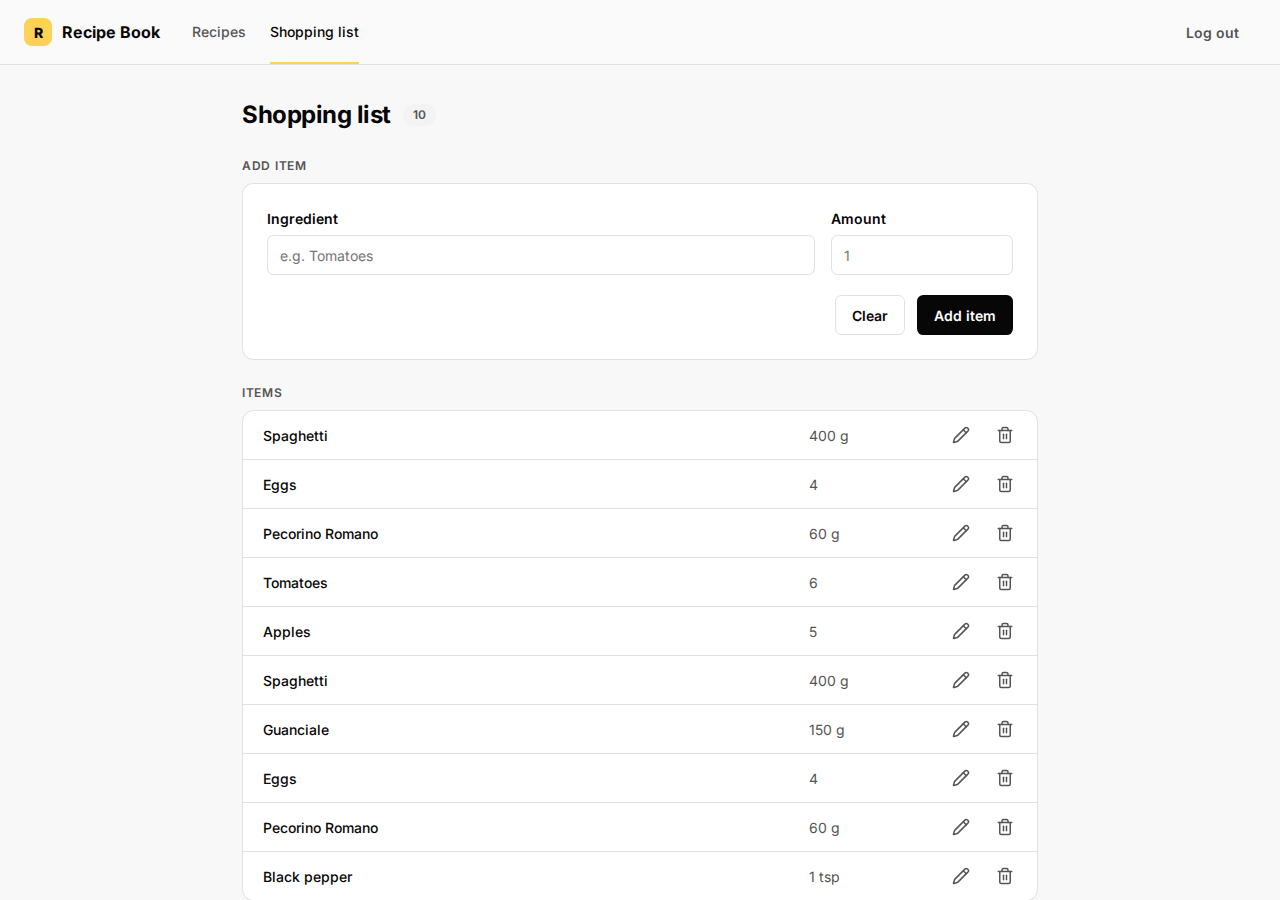
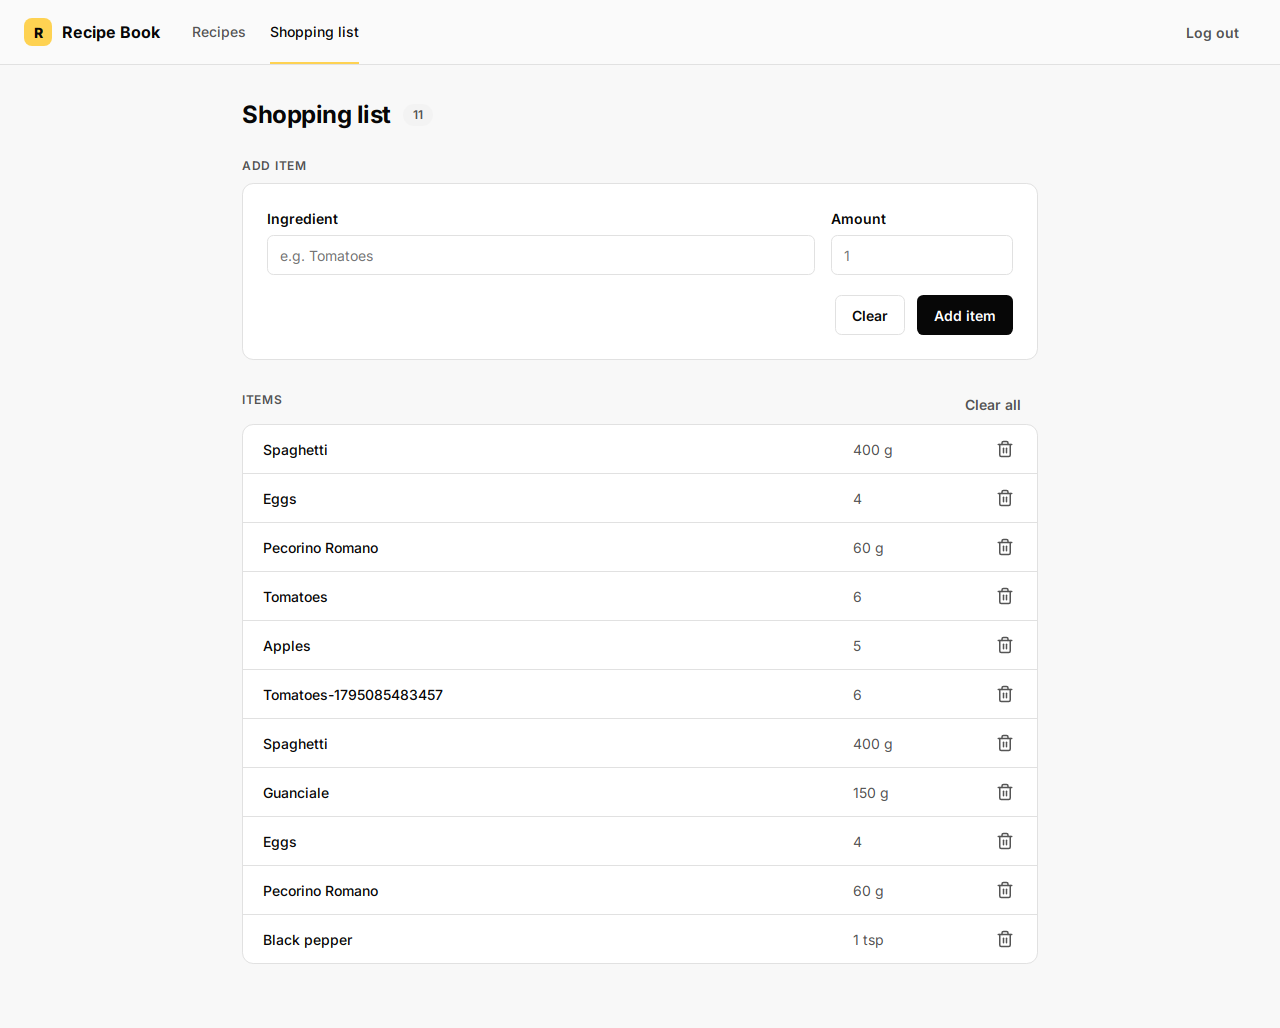
docs: align guides with live Recipe Book UI and add missing features
Update add-to-shopping-list and add-recipe-to-shopping-list for Recipe
book landing copy. Add guides for clear all, new recipe, search, and
servings with live-demo limitation notes. Refresh Playwright screenshots.

diff --git a/docs/guides/adjust-recipe-servings.md b/docs/guides/adjust-recipe-servings.md
@@ -1,0 +1,54 @@
+---
+title: "Adjust recipe servings"
+description: "Use the − and + controls next to Ingredients on the Recipe book page."
+type: guide
+---
+
+# Adjust a recipe's servings
+
+The **Details** panel shows a servings stepper next to **Ingredients**: **−**, a number, and **+**.
+
+**Demo URL:** https://demo-angular-22-wgdt.free.ccpve.co.za
+
+## Known issue (live demo)
+
+On the current deployment, clicking **+** or **−** updates the number between the buttons, but ingredient amounts in the list and the **Serves** badge do **not** change. **Add to shopping list** still adds the default amounts, not scaled amounts.
+
+## Steps
+
+### Step 1 — Sign in and pick a recipe
+
+1. Open the demo URL and sign in (any **Email** and **Password**; blue **Log in** link in the form card).
+2. Under **ALL RECIPES**, click a recipe, for example **Spaghetti carbonara**.
+
+The **Details** panel shows the recipe name and an ingredient list.
+
+![Recipe selected in Details](/assets/guides/adjust-recipe-servings/step-1-details.png)
+
+### Step 2 — Find the servings controls
+
+In **Details**, under **INGREDIENTS**, look at the right side of the heading row. You see:
+
+- A **−** button (outline style)
+- A number showing the current count (for example `4`)
+- A **+** button (outline style)
+
+Above the ingredients, a **Serves** badge shows the recipe’s original serving size (for example **Serves 4**).
+
+![Servings stepper next to Ingredients](/assets/guides/adjust-recipe-servings/step-2-stepper.png)
+
+### Step 3 — Increase or decrease servings
+
+Click **+** or **−** (**−** is disabled at 1 serving).
+
+**On the current deployment:** the number between **−** and **+** changes, but ingredient amounts (for example **400 g** next to Spaghetti) stay the same.
+
+![After clicking +; amounts unchanged on current deployment](/assets/guides/adjust-recipe-servings/step-3-scaled-amounts.png)
+
+### Step 4 — Add items to the shopping list
+
+Click the blue **Add to shopping list** button at the bottom of **Details**.
+
+On **Shopping list**, new rows use the recipe’s default amounts from **Details**, not amounts scaled to the stepper value on the current deployment.
+
+![Shopping list after Add to shopping list](/assets/guides/adjust-recipe-servings/step-4-shopping-list.png)

diff --git a/docs/guides/add-new-recipe.md b/docs/guides/add-new-recipe.md
@@ -1,0 +1,61 @@
+---
+title: "Add a new recipe"
+description: "Create a recipe with name, description, time, serves, and ingredients (one per line as name, amount)."
+type: guide
+---
+
+# Add a new recipe
+
+The Recipe book page shows a **New recipe** button for creating your own recipe.
+
+**Demo URL:** https://demo-angular-22-wgdt.free.ccpve.co.za
+
+## Known issue (live demo)
+
+On the current deployment, **New recipe** is visible but does **not** open the form, and **Save recipe** is never shown. The steps below describe the controls in source; skip to the report notes if you only need to verify the live site today.
+
+## Steps
+
+### Step 1 — Sign in
+
+1. Open the demo URL. On **Log in**, enter any **Email** and **Password**.
+2. Click the blue **Log in** link in the white card.
+
+You land on **Recipe book**.
+
+![Recipe book after sign-in](/assets/guides/add-new-recipe/step-1-login.png)
+
+### Step 2 — Locate New recipe
+
+At the top of the page, to the right of the recipe count chip, click **New recipe**.
+
+**On the current deployment:** **Details** stays on the selected recipe; the **NEW RECIPE** form does not appear.
+
+![Recipe book with New recipe button](/assets/guides/add-new-recipe/step-2-new-recipe-form.png)
+
+### Step 3 — Fill in the fields (when the form is available)
+
+When the form opens, use the visible labels:
+
+| Label | What to enter |
+| --- | --- |
+| **Name** | Recipe title (required) |
+| **Description** | Short summary |
+| **Time** | For example `30 min` |
+| **Serves** | Number of people, for example `4` |
+| **Ingredients** | One ingredient per line as `name, amount` (for example `Tomatoes, 6`) |
+
+![Filled new recipe form (reference)](/assets/guides/add-new-recipe/step-3-form-filled.png)
+
+### Step 4 — Save the recipe (when the form is available)
+
+Click the blue **Save recipe** button at the bottom of the form.
+
+**Success looks like this:**
+
+- The form closes and **Details** shows your new recipe.
+- The recipe appears in **ALL RECIPES** on the left.
+
+![New recipe in the list (reference)](/assets/guides/add-new-recipe/step-4-saved-in-list.png)
+
+To abandon the form without saving, click **Cancel**.

diff --git a/docs/guides/clear-all-shopping-list.md b/docs/guides/clear-all-shopping-list.md
@@ -1,0 +1,49 @@
+---
+title: "Clear all items from your shopping list"
+description: "Remove every row in Items at once with Clear all."
+type: guide
+---
+
+# Clear all items from your shopping list
+
+Use **Clear all** when you want an empty list without removing rows one at a time.
+
+**Demo URL:** https://demo-angular-22-wgdt.free.ccpve.co.za
+
+## Before you start
+
+You must be signed in and on the **Shopping list** page. **Clear all** only appears when **Items** has at least one row.
+
+## Steps
+
+### Step 1 — Sign in and open Shopping list
+
+1. Open the demo URL. On the **Log in** page, type any **Email** and **Password** (the demo does not validate them).
+2. Click the blue **Log in** link inside the white card (not the small **Log in** tab in the header).
+3. Click **Shopping list** in the top header.
+
+You should see the **Shopping list** title and the **Items** section.
+
+![Shopping list with Items rows](/assets/guides/clear-all-shopping-list/step-1-shopping-list.png)
+
+### Step 2 — Find Clear all
+
+Under **ITEMS**, look to the right of the small caps **ITEMS** label. When the list is not empty, a **Clear all** button appears there (ghost style, to the right of the heading).
+
+![Clear all next to Items heading](/assets/guides/clear-all-shopping-list/step-2-clear-all-visible.png)
+
+### Step 3 — Clear the list
+
+Click **Clear all**.
+
+**Success looks like this:**
+
+- Every row in **Items** disappears.
+- You see the message: **Your shopping list is empty.**
+
+![Empty shopping list](/assets/guides/clear-all-shopping-list/step-3-empty.png)
+
+## Tips
+
+- **Clear all** removes every row. To delete one row only, use the trash **Remove** icon on that row (see [Remove an item from your shopping list](remove-from-shopping-list.md)).
+- The **Clear** button under **ADD ITEM** only clears the add form, not **Items**.

diff --git a/reports/2026-11-19-doc-drift-cron-1047Z.md b/reports/2026-11-19-doc-drift-cron-1047Z.md
@@ -1,0 +1,37 @@
+# Document drift cron — 2026-11-19 10:47 UTC
+
+Target: https://demo-angular-22-wgdt.free.ccpve.co.za (headless Playwright, `EMAIL`/`PASSWORD` secrets)
+
+Feature list: `demo-angular-22/DOCUMENTED_FEATURES.MD` on `main` (7 features, one guide each).
+
+## Summary (this run)
+
+| Guide | Functional | Doc fidelity (pre-PR) | Doc fidelity (expected post-PR) |
+| --- | --- | --- | --- |
+| `add-to-shopping-list.md` | pass | drift | pass |
+| `remove-from-shopping-list.md` | pass | pass | pass |
+| `clear-all-shopping-list.md` | pass | fail (missing) | pass |
+| `add-recipe-to-shopping-list.md` | pass | drift | pass |
+| `add-new-recipe.md` | fail | fail (missing) | pass (documents live limitation) |
+| `search-recipes-by-name.md` | fail | fail (missing) | pass (documents live limitation) |
+| `adjust-recipe-servings.md` | fail | fail (missing) | pass (documents live limitation) |
+
+## Per-step mismatches (main before PR)
+
+### `add-to-shopping-list.md` / `add-recipe-to-shopping-list.md`
+
+- **Step 1 (landing):** Doc — *"You should land on the **Recipes** page"* → Screen — page title **Recipe book** (`h1`), header tab **Recipes**.
+
+### Missing guides (features 3, 5, 6, 7)
+
+No markdown guide on `main` for clear all, new recipe, search, or adjust servings.
+
+## Functional issues (live app — not fixed in this PR)
+
+| Feature | Result | Notes |
+| --- | --- | --- |
+| Add new recipe | fail | **New recipe** visible; form does not open; **Save recipe** never appears |
+| Search recipes | fail | **Search recipes** field accepts text; list does not filter |
+| Adjust servings | fail | Stepper number changes; ingredient amounts and **Serves** badge unchanged; shopping list gets default amounts |
+
+Evidence: `node scripts/cron-2026-11-19-audit.mjs` (local cron script, not committed).

diff --git a/docs/guides/search-recipes-by-name.md b/docs/guides/search-recipes-by-name.md
@@ -1,0 +1,47 @@
+---
+title: "Search recipes by name"
+description: "Use the search field on the Recipe book page to type a recipe name."
+type: guide
+---
+
+# Search recipes by name
+
+The Recipe book page includes a search field under **ALL RECIPES** so you can type part of a recipe name.
+
+**Demo URL:** https://demo-angular-22-wgdt.free.ccpve.co.za
+
+## Known issue (live demo)
+
+On the current deployment, typing in **Search recipes** updates the field text but **does not** narrow the recipe list. Every recipe in **ALL RECIPES** stays visible until the app is redeployed with a working filter.
+
+## Steps
+
+### Step 1 — Sign in
+
+1. Open the demo URL. You see the **Log in** page.
+2. Type any **Email** and **Password**.
+3. Click the blue **Log in** link inside the white card.
+
+You land on **Recipe book**.
+
+![Recipe book after sign-in](/assets/guides/search-recipes-by-name/step-1-recipe-book.png)
+
+### Step 2 — Focus the search field
+
+Under **ALL RECIPES**, click the search field. Its placeholder is **Search recipes**.
+
+![Search field under All recipes](/assets/guides/search-recipes-by-name/step-2-search-field.png)
+
+### Step 3 — Type a recipe name
+
+Type part of a name, for example `carbonara`.
+
+**On the current deployment:** the text appears in the field, but **ALL RECIPES** still lists every recipe (for example **Spaghetti carbonara**, **Chicken tikka masala**, and **Vegetable stir-fry**).
+
+![Search text entered; full list still visible](/assets/guides/search-recipes-by-name/step-3-filtered.png)
+
+### Step 4 — Clear or change the search (optional)
+
+Delete the text in the search field or type a different term. When filtering works, only matching recipes stay in the list.
+
+![Search field cleared](/assets/guides/search-recipes-by-name/step-4-cleared-search.png)

diff --git a/docs/guides/add-to-shopping-list.md b/docs/guides/add-to-shopping-list.md
@@ -20,7 +20,7 @@ Open the demo URL above. You should see the **Log in** page.
 2. Click in the **Password** box. Type any password.
 3. Click the blue **Log in** link **inside the white card** (not the small **Log in** link in the top-right header).
 
-You should land on the **Recipes** page.
+You should land on the **Recipe book** page (large **Recipe book** heading at the top; the header tab still reads **Recipes**).
 
 ![Log in page with Email, Password, and Log in link](/assets/guides/add-to-shopping-list/step-1-login.png)
 

diff --git a/docs/guides/add-recipe-to-shopping-list.md b/docs/guides/add-recipe-to-shopping-list.md
@@ -18,7 +18,7 @@ Add **every ingredient** from a recipe to **Items** in one click.
 2. Type any **Email** and **Password** (the demo does not check them).
 3. Click the blue **Log in** link **inside the white card** (not the small **Log in** tab in the top-right header).
 
-You land on **Recipes**.
+You land on **Recipe book** (large **Recipe book** heading at the top).
 
 ![Log in and sign in](/assets/guides/add-recipe-to-shopping-list/step-1-login.png)
 
